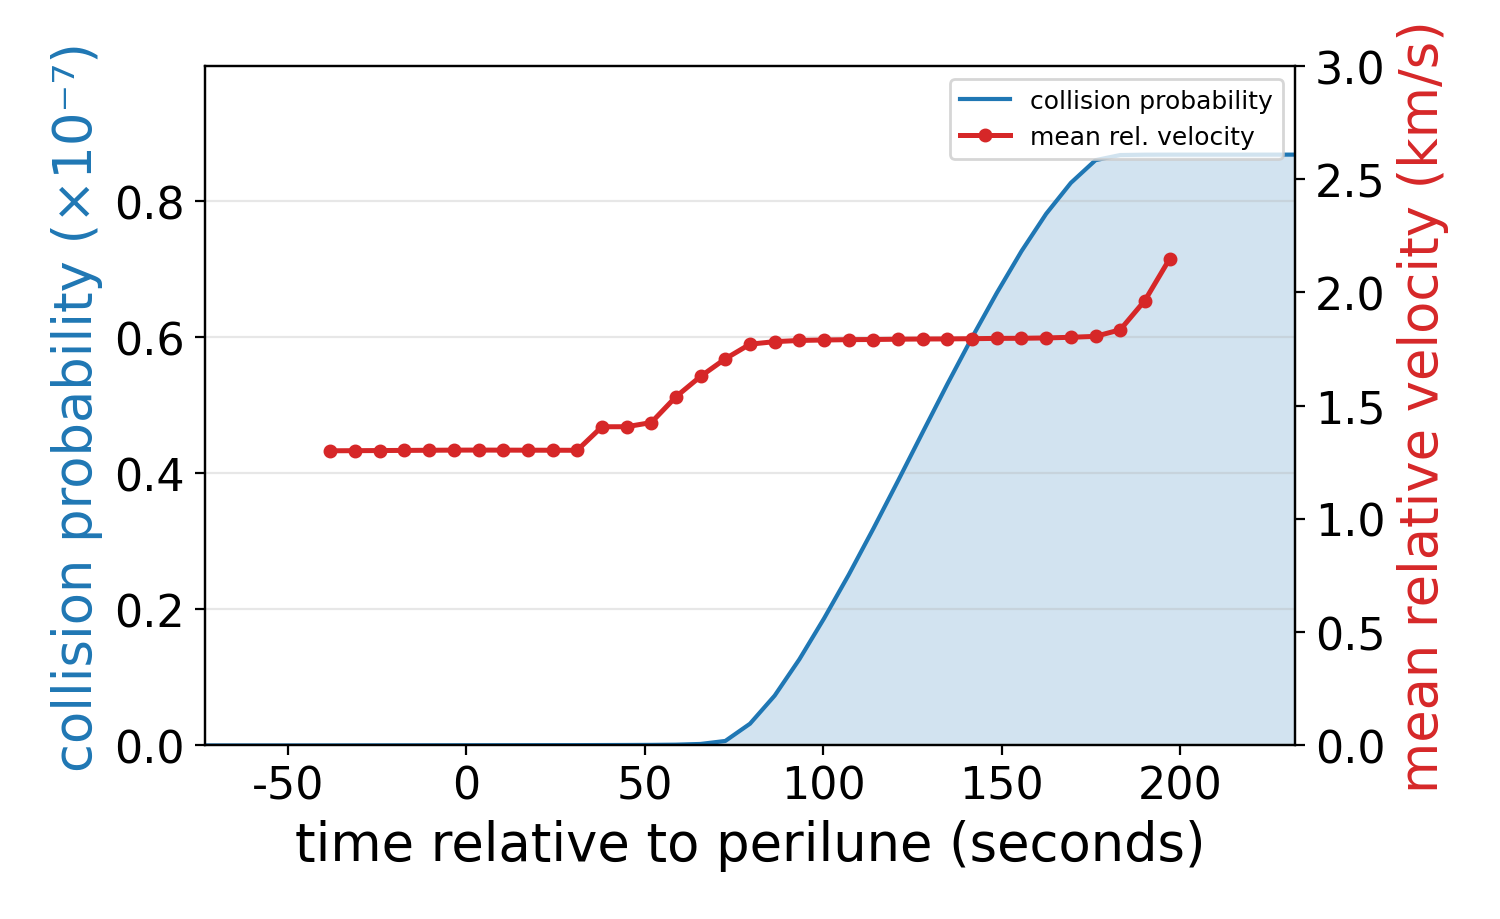
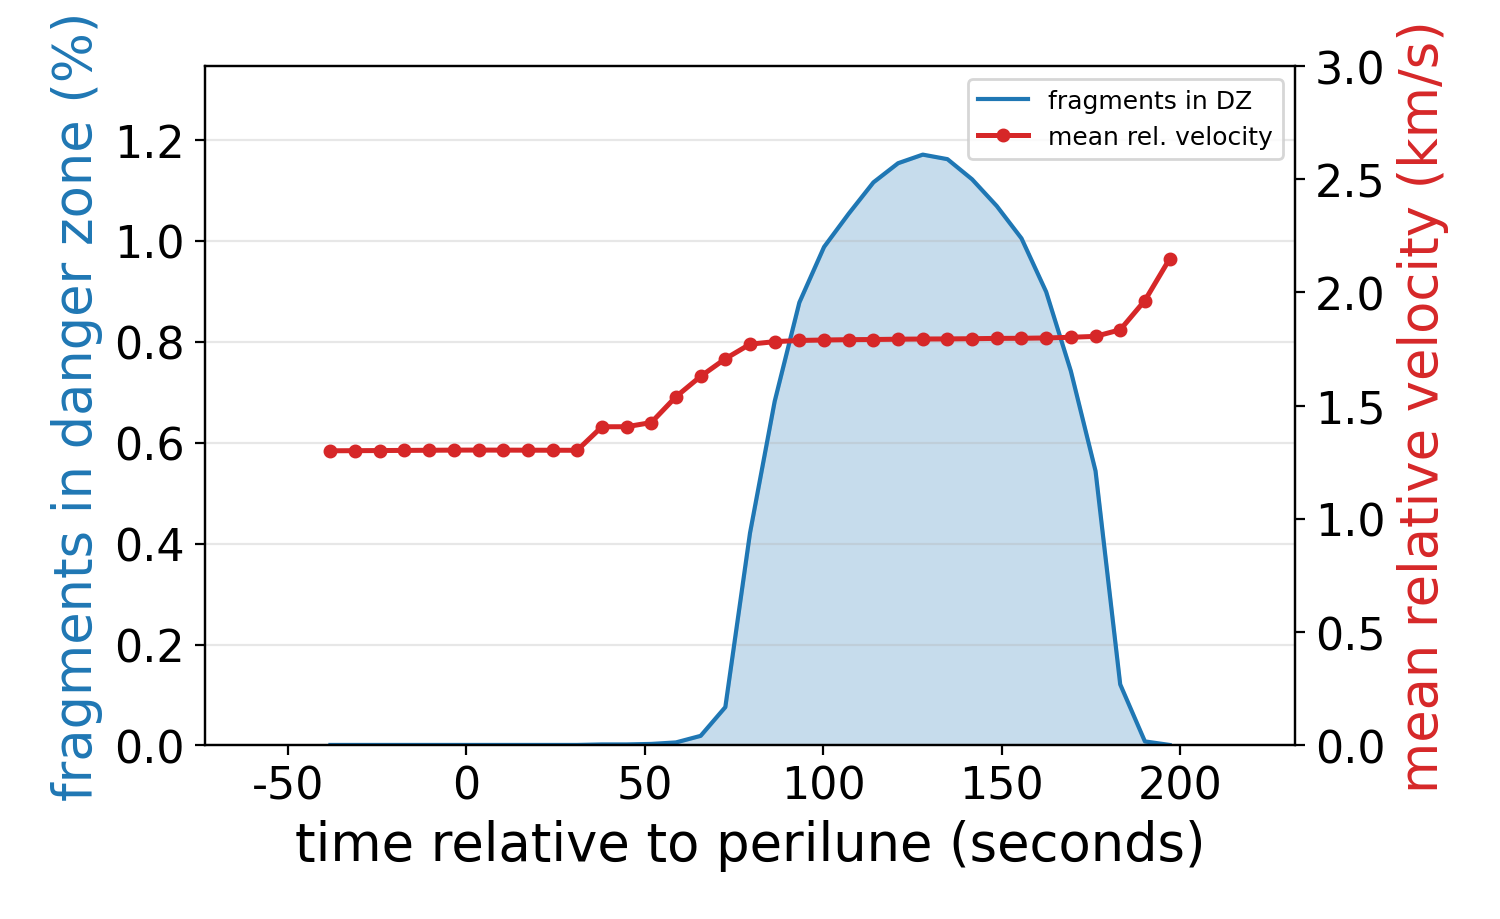
Jun27

Changed region(s): [[0.4293, 0.0914, 0.8893, 0.8226], [0.0307, 0.0, 0.1227, 0.8836]]

diff --git a/extract_peaks.py b/extract_peaks.py
@@ -1,0 +1,109 @@
+# 保存为 extract_peaks.py, 在 LLO_paper 目录下运行
+import numpy as np
+
+d = np.load('analysis_base.npz')
+table = d['table']      # (6, N_dt) 碰撞概率
+dts = d['dts']           # Δt 数组
+pts = d['pts']           # [0,1,2,3,4,5]
+
+# 找到主峰 (≈7.8d) 和次峰 (≈5.2d) 的 Δt 索引
+mask_main = (dts >= 7.0) & (dts <= 9.0)
+mask_sec  = (dts >= 4.5) & (dts <= 6.0)
+
+print(f"{'Point':<8} {'Main peak (≈7.8d)':<22} {'Sec. peak (≈5.2d)':<22}")
+print("-" * 52)
+main_vals, sec_vals = [], []
+for r, k in enumerate(pts):
+    p_main = table[r][mask_main].max() if mask_main.any() else 0
+    p_sec  = table[r][mask_sec].max()  if mask_sec.any()  else 0
+    main_vals.append(p_main); sec_vals.append(p_sec)
+    print(f"  {k+1:<6} {p_main:<22.3e} {p_sec:<22.3e}")
+import numpy as np
+
+d = np.load('analysis_base.npz')
+table = d['table']      # (6, N_dt)
+dts = d['dts']           # Δt 网格
+
+# 每个点独立找主峰和次峰
+for r in range(6):
+    row = table[r]
+    # 主峰: 在 Δt > 6.5 范围内找最大 P
+    mask_hi = dts > 6.5
+    i_main = mask_hi.nonzero()[0][np.argmax(row[mask_hi])]
+    # 次峰: 在 Δt ∈ [3, 6.5] 范围内找最大 P
+    mask_lo = (dts >= 3) & (dts <= 6.5)
+    i_sec = mask_lo.nonzero()[0][np.argmax(row[mask_lo])]
+    print(f"点{r+1}: 主峰 Δt={dts[i_main]:.2f}d P={row[i_main]:.3e}  |  次峰 Δt={dts[i_sec]:.2f}d P={row[i_sec]:.3e}")
+print("-" * 52)
+print(f"  Avg    {np.mean(main_vals):<22.3e} {np.mean(sec_vals):<22.3e}")
+ 
+ 
+d = np.load('figdata_cache.npz', allow_pickle=True)
+tgrid = d['tgrid']
+
+print(f"{'解体位置':<10} {'峰值时间':<12} {'峰值数量':<10} {'开始时间':<12} {'结束时间':<12} {'平均相对速度':<14}")
+print(f"{'':10} {'(d)':<12} {'(个)':<10} {'(d)':<12} {'(d)':<12} {'(km/s)':<14}")
+print("-" * 72)
+
+for k in range(6):
+    n = d[f'pt{k}_n_dz']
+    v = d[f'pt{k}_vmean']
+    active = np.where(n > 0)[0]
+    if len(active):
+        i_peak = active[np.argmax(n[active])]
+        t_peak  = tgrid[i_peak]
+        n_peak  = n[i_peak]
+        v_peak  = v[i_peak]
+        t_start = tgrid[active[0]]
+        t_end   = tgrid[active[-1]]
+    else:
+        t_peak = n_peak = v_peak = t_start = t_end = 0
+    print(f"  点{k+1:<7} {t_peak:<12.4f} {n_peak:<10.0f} {t_start:<12.4f} {t_end:<12.4f} {v_peak:<14.3f}")
+
+    import numpy as np
+
+d = np.load('figdata_cache.npz', allow_pickle=True)
+tgrid = d['tgrid']
+
+print(f"{'解体位置':<10} {'Ė_peak (s⁻¹)':<16} {'E_final':<14} {'P_final':<14}")
+print("-" * 54)
+
+for k in range(6):
+    risk = d[f'pt{k}_risk']        # Ė(t) 瞬时期望撞击率
+    cumE = d[f'pt{k}_cumE']        # E(t) 累积期望撞击数
+    P    = d[f'pt{k}_P']           # P(t) 碰撞概率
+    print(f"  点{k+1:<7} {risk.max():<16.3e} {cumE[-1]:<14.3e} {P[-1]:<14.3e}")
+import numpy as np
+
+d = np.load('figdata_cache.npz', allow_pickle=True)
+counts = d['fig9_counts']
+x = d['sc_pkm_x']
+y = d['sc_pkm_y']
+tgrid = d['tgrid']
+
+nz = np.where(counts > 0)[0]
+i_start, i_end = nz[0], nz[-1]
+
+print(f"交会起始:  t={tgrid[i_start]:.4f} d  |  x={x[i_start]:.1f}  y={y[i_start]:.1f} km (月心)")
+print(f"交会终止:  t={tgrid[i_end]:.4f} d  |  x={x[i_end]:.1f}  y={y[i_end]:.1f} km (月心)")
+print(f"交会持续:  {tgrid[i_end]-tgrid[i_start]:.4f} d ≈ {(tgrid[i_end]-tgrid[i_start])*86400:.0f} s")
+print(f"峰值位置:  t={tgrid[nz[np.argmax(counts[nz])]]:.4f} d")
+
+import numpy as np
+
+d = np.load('figdata_cache.npz', allow_pickle=True)
+counts = d['fig9_counts']
+nz = np.where(counts > 0)[0]
+c_nz = counts[nz]
+
+print(f"非零count点数: {len(nz)}, 全长: {len(counts)}")
+print(f"count范围: {c_nz.min():.0f} ~ {c_nz.max():.0f}")
+print(f"count均值: {c_nz.mean():.1f}, 中位数: {np.median(c_nz):.0f}")
+print()
+for v in sorted(set(c_nz.astype(int))):
+    n = int(np.sum(c_nz.astype(int) == v))
+    print(f"  count={v}: {n} 个点")
+
+# 是否集中在低值?
+print(f"\n≤3的点占比: {np.sum(c_nz <= 3) / len(c_nz) * 100:.0f}%")
+print(f"≥6的点占比: {np.sum(c_nz >= 6) / len(c_nz) * 100:.0f}%")

diff --git a/plot_sc_traj.py b/plot_sc_traj.py
@@ -1,0 +1,62 @@
+# 保存为 plot_sc_traj.py, 在 LLO_paper 目录下运行
+import numpy as np
+import matplotlib.pyplot as plt
+from matplotlib.collections import LineCollection
+from matplotlib.colors import LogNorm
+
+d = np.load('figdata_cache.npz', allow_pickle=True)
+counts = d['fig9_counts']
+x = d['sc_pkm_x']   # 月心, km
+y = d['sc_pkm_y']
+tgrid = d['tgrid']
+
+# 交会窗口索引
+nz = np.where(counts > 0)[0]
+i_start, i_end = nz[0], nz[-1]
+
+# 画图范围: 窗口前后各扩一点
+pad = max(5, (i_end - i_start) // 2)
+i0 = max(0, i_start - pad)
+i1 = min(len(x) - 1, i_end + pad)
+
+fig, ax = plt.subplots(figsize=(6, 6))
+ax.set_aspect('equal')
+
+# 全轨迹淡色
+ax.plot(x[i0:i1+1], y[i0:i1+1], 'C0', lw=1.0, alpha=0.3, label='SC trajectory')
+
+# 交会段按 count 连续着色
+x_seg = x[i_start:i_end+1]; y_seg = y[i_start:i_end+1]
+idx_seg = np.arange(i_start, i_end+1)
+c_seg = counts[idx_seg]
+points = np.array([x_seg, y_seg]).T.reshape(-1, 1, 2)
+segments = np.concatenate([points[:-1], points[1:]], axis=1)
+norm = LogNorm(vmin=1, vmax=c_seg.max())
+lc = LineCollection(segments, cmap='YlOrRd', norm=norm, lw=3, zorder=4)
+lc.set_array(np.clip(c_seg[:-1], 1, None))
+ax.add_collection(lc)
+cbar = fig.colorbar(lc, ax=ax, shrink=0.7, pad=0.02)
+cbar.set_label('fragment count', fontsize=22)
+
+# 聚焦交会段
+x_mid = (x_seg.min() + x_seg.max()) / 2
+y_mid = (y_seg.min() + y_seg.max()) / 2
+half = max(np.ptp(x_seg), np.ptp(y_seg)) / 2 * 1.5
+ax.set_xlim(x_mid - half, x_mid + half)
+ax.set_ylim(y_mid - half, y_mid + half)
+
+# 起止标记
+ax.scatter(x[i_start], y[i_start], c='C2', s=10, zorder=5, label=f'start (t={tgrid[i_start]:.4f}d)')
+ax.scatter(x[i_end],   y[i_end],   c='C4', s=10, zorder=5, marker='s', label=f'end (t={tgrid[i_end]:.4f}d)')
+
+# 月球→近月点虚线
+dm = np.sqrt(x_seg**2 + y_seg**2)
+i_peri = np.argmin(dm)
+ax.plot([0, x_seg[i_peri]], [0, y_seg[i_peri]], 'k--', lw=1, alpha=0.5, label='Moon→perilune')
+
+ 
+ax.set_xlabel('x (km, Moon-centered)'); ax.set_ylabel('y (km, Moon-centered)')
+ax.legend(fontsize=12, loc='upper left')
+ax.grid(alpha=0.3)
+fig.tight_layout(); fig.savefig('fig_sc_traj_intersection.png', dpi=200)
+print('[saved] fig_sc_traj_intersection.png')

diff --git a/sweep_server.py b/sweep_server.py
@@ -1,0 +1,35 @@
+# -*- coding: utf-8 -*-
+"""点3(最坏点) Δt=5.0~7.78d 细扫描(0.25d步), 修正网格(±0.12d, dt~7s), 满样本500k+CI。
+断点续算: 跑过的存 sweep_server.npz, 重启自动跳过; 已预置 verify_two 的 5.0/7.78d 结果。"""
+import os
+import numpy as np
+import analysis_ldo as A
+
+fr = np.load('fragments_ldo.npz'); POS, VEL = fr['pos_nd'], fr['vel_nd']
+sc_t, sc_state = A.load_sc()
+n = 500_000
+DTS = [float(x) for x in np.round(np.append(np.arange(5.0, 7.76, 0.25), 7.78), 3)]
+CKPT = 'sweep_server.npz'
+
+# 已跑过的(verify_two 服务器 500k 结果), 预置避免重复
+done = {5.0:  (9.0479e-08, 8.812e-08, 9.267e-08, 6148),
+        7.78: (8.6409e-08, 8.375e-08, 8.878e-08, 5903)}
+if os.path.exists(CKPT):
+    done = dict(np.load(CKPT, allow_pickle=True)['done'].item())
+
+for dt in DTS:
+    if dt in done:
+        print('skip Δt=%.2fd (已有 P=%.4e)' % (dt, done[dt][0]), flush=True)
+        continue
+    e = A.eval_point(POS[2], VEL[2], sc_t, sc_state, dt, n)
+    P = 1 - np.exp(-(A.N_PHYS/n)*e.sum())
+    rng = np.random.default_rng(0)
+    Pb = np.array([1-np.exp(-(A.N_PHYS/n)*e[rng.integers(0, n, n)].sum()) for _ in range(300)])
+    done[dt] = (float(P), float(np.percentile(Pb, 2.5)), float(np.percentile(Pb, 97.5)), int((e > 0).sum()))
+    np.savez(CKPT, done=np.array(done, dtype=object))
+    print('RESULT Δt=%.2fd  P=%.4e  CI=[%.3e,%.3e]  命中=%d'
+          % (dt, P, done[dt][1], done[dt][2], done[dt][3]), flush=True)
+
+print('=== 汇总 (Δt, P) ===', flush=True)
+for dt in sorted(done):
+    print('  Δt=%.2fd  P=%.4e' % (dt, done[dt][0]), flush=True)

diff --git a/verify_two.py b/verify_two.py
@@ -1,0 +1,17 @@
+# -*- coding: utf-8 -*-
+"""服务器验证: 修正后 eval_point(近月点±0.12d, dt~7s) 下,
+点3(最坏点) 在 Δt=5.0d 和 7.78d 两处的碰撞概率(满样本500k + bootstrap CI)。
+只跑这两个, 不动整张表。"""
+import numpy as np, analysis_ldo as A
+fr = np.load('fragments_ldo.npz'); POS, VEL = fr['pos_nd'], fr['vel_nd']
+sc_t, sc_state = A.load_sc()
+n = 500_000
+print('=== 修正后(±0.12d, dt~7s) 点3 @ %d碎片 ==='% n, flush=True)
+print('参考旧(粗网格dt230s): 5.0d=1.79e-7, 7.78d=2.34e-7', flush=True)
+for dt in [5.0, 7.78]:
+    e = A.eval_point(POS[2], VEL[2], sc_t, sc_state, dt, n)
+    P = 1 - np.exp(-(A.N_PHYS/n)*e.sum())
+    rng = np.random.default_rng(0)
+    Pb = np.array([1-np.exp(-(A.N_PHYS/n)*e[rng.integers(0, n, n)].sum()) for _ in range(300)])
+    print('Δt=%.2fd  P=%.4e  95%%CI=[%.3e, %.3e]  命中=%d'
+          % (dt, P, np.percentile(Pb, 2.5), np.percentile(Pb, 97.5), int((e > 0).sum())), flush=True)

diff --git a/sweep_5_778.py b/sweep_5_778.py
@@ -1,0 +1,16 @@
+# -*- coding: utf-8 -*-
+"""点3(最坏点) Δt=5.0~7.78d 细扫描(0.25d), 修正网格, 看曲线是平台还是有结构(深谷)。
+100k样本(够看形状); 每点即时打印。"""
+import numpy as np, analysis_ldo as A
+fr=np.load('fragments_ldo.npz'); POS,VEL=fr['pos_nd'],fr['vel_nd']
+sc_t,sc_state=A.load_sc(); n=100_000
+DTS=np.round(np.append(np.arange(5.0,7.76,0.25),7.78),3)
+print('=== 点3 Δt=5.0~7.78d 细扫描 (修正网格dt~7s, %dk) ==='%(n//1000),flush=True)
+out=[]
+for dt in DTS:
+    e=A.eval_point(POS[2],VEL[2],sc_t,sc_state,float(dt),n)
+    P=1-np.exp(-(A.N_PHYS/n)*e.sum())
+    out.append((float(dt),float(P),int((e>0).sum())))
+    np.save('sweep_5_778.npy',np.array(out))
+    print('RESULT Δt=%.2fd  P=%.4e  命中=%d'%(dt,P,int((e>0).sum())),flush=True)
+print('RESULT done',flush=True)

diff --git a/check_counts.py b/check_counts.py
@@ -1,0 +1,14 @@
+# 保存为 check_counts.py, 跑完删掉即可
+import numpy as np
+d = np.load('figdata_cache.npz', allow_pickle=True)
+c = d['fig9_counts']
+nz = np.where(c > 0)[0]
+cn = c[nz]
+print('count范围:', cn.min(), cn.max())
+print('均值: %.1f  中位数: %.0f' % (cn.mean(), np.median(cn)))
+print('总非零点数:', len(cn))
+for v in sorted(set(cn.astype(int))):
+    n = int(np.sum(cn.astype(int) == v))
+    print('  count=%d: %d' % (v, n))
+print('<=5占比: %.0f%%' % (np.sum(cn<=5)/len(cn)*100))
+print('>=100占比: %.0f%%' % (np.sum(cn>=100)/len(cn)*100))

diff --git a/figdata_and_plots.py b/figdata_and_plots.py
@@ -213,17 +213,17 @@ def plot_fig4(d):
 
 def plot_fig5(d):
     tgrid = d['tgrid']; n_dz = d[f'pt{WORST}_n_dz']; vmean = d[f'pt{WORST}_vmean']
-    P = d[f'pt{WORST}_P']
+    frac_dz = n_dz / A.N_PHYS * 100
     t_sec = tgrid * 86400
     fig, ax = plt.subplots(figsize=(7.5, 4.6)); ax2 = ax.twinx()
 
-    ax.fill_between(t_sec, P * 1e7, alpha=0.2, color='C0')
-    ax.plot(t_sec, P * 1e7, 'C0', lw=1.5, label='collision probability')
     mask = n_dz > 0
+    ax.fill_between(t_sec[mask], frac_dz[mask], alpha=0.25, color='C0')
+    ax.plot(t_sec[mask], frac_dz[mask], 'C0', lw=1.5, label='fragments in DZ')
     ax2.plot(t_sec[mask], vmean[mask], 'C3o-', lw=1.8, ms=4, label='mean rel. velocity')
 
     ax.set_xlabel('time relative to perilune (seconds)')
-    ax.set_ylabel('collision probability (×10⁻⁷)', color='C0')
+    ax.set_ylabel('fragments in danger zone (%)', color='C0')
     ax2.set_ylabel('mean relative velocity (km/s)', color='C3')
 
     active = np.where(n_dz > 0)[0]
@@ -234,7 +234,7 @@ def plot_fig5(d):
     if len(v_ok):
         ax2.set_ylim(0, np.ceil(v_ok.max()))
         ax2.set_yticks(np.arange(0, np.ceil(v_ok.max()) + 0.5, 0.5))
-    ax.set_ylim(0, P.max() * 1e7 * 1.15)
+    ax.set_ylim(0, frac_dz[mask].max() * 1.15)
 
     lines1, labels1 = ax.get_legend_handles_labels()
     lines2, labels2 = ax2.get_legend_handles_labels()
@@ -260,7 +260,7 @@ def plot_fig7(d):
     from matplotlib.lines import Line2D
     handles = [Line2D([0], [0], color=colors[k], lw=2) for k in PTS]
     fig.legend(handles, [f'{k+1}' for k in PTS], title='Breakup location',
-               ncol=6, fontsize=10, title_fontsize=8, loc='upper center', bbox_to_anchor=(0.5, 0.995))
+               ncol=6, fontsize=10, title_fontsize=12, loc='upper center', bbox_to_anchor=(0.5, 0.995))
     n_dz = d[f'pt{WORST}_n_dz']
     active = np.where(n_dz > 0)[0]
     if len(active):

diff --git a/verify_63.py b/verify_63.py
@@ -1,0 +1,11 @@
+# -*- coding: utf-8 -*-
+"""点3 @ Δt=6.3d (旧表"深谷"处), 修正网格满样本, 验证平台 vs 深谷。"""
+import numpy as np, analysis_ldo as A
+fr=np.load('fragments_ldo.npz'); POS,VEL=fr['pos_nd'],fr['vel_nd']
+sc_t,sc_state=A.load_sc(); n=500_000
+e=A.eval_point(POS[2],VEL[2],sc_t,sc_state,6.3,n)
+P=1-np.exp(-(A.N_PHYS/n)*e.sum())
+rng=np.random.default_rng(0)
+Pb=np.array([1-np.exp(-(A.N_PHYS/n)*e[rng.integers(0,n,n)].sum()) for _ in range(300)])
+print('RESULT 点3 Δt=6.3d  P=%.4e  95%%CI=[%.3e,%.3e]  命中=%d'%(P,np.percentile(Pb,2.5),np.percentile(Pb,97.5),int((e>0).sum())),flush=True)
+print('RESULT 旧表6.3d附近≈1e-11(深谷); 若~9e-8则是平台、深谷为假象',flush=True)

diff --git a/analysis_ldo.py b/analysis_ldo.py
@@ -95,8 +95,12 @@ def eval_point(pt_pos, pt_vel, sc_t, sc_state, dt_warning, n_sub):
     abs_days = dt_warning + tau
     keep = abs_days >= 0
     tau, abs_days = tau[keep], abs_days[keep]
-    # 重采样到 N_WIN 均匀
-    grid = np.linspace(abs_days.min(), abs_days.max(), N_WIN)
+    # 时间网格【集中到近月点 ±WIN_HALF】: 危险区穿越只发生在近月点附近(~±0.003d),
+    # 整条±4d均匀撒点会使 dt(230s)>遭遇时长(234s)而系统性高估~2.5×. 这里 dt~7s.
+    WIN_HALF = 0.12
+    g0 = max(dt_warning - WIN_HALF, abs_days.min())
+    g1 = min(dt_warning + WIN_HALF, abs_days.max())
+    grid = np.linspace(g0, g1, N_WIN)
     SC = np.column_stack([np.interp(grid, abs_days, sc_state[keep][:,k]) for k in range(6)])
     SCp, SCv = jnp.array(SC[:,:3]), jnp.array(SC[:,3:])
     save_ts = jnp.array(grid/tt_days)

diff --git a/paper_section5_revision.md b/paper_section5_revision.md
@@ -41,7 +41,15 @@
 > 碎片数与平均相对速度，相对速度约 **1.6 km/s**（峰值时刻 1.8 km/s，范围 1.3–2.1 km/s）。采用危险区通量模型计算期望
 > 撞击数 E 并由泊松得碰撞概率 P=1−exp(−E)（物理碎片数 N=655）。
 >
-> 碰撞概率随预警时间 Δt 呈**脉冲/多峰**特征（表2、图8-Δt）：
+> **⚠️ 数值分辨率修正（重要）**：危险区通量积分 E=∫(v_rel·σ/V_DZ)dt 须分辨航天器穿越危险区的
+> **~4 分钟**遭遇。初版在整条 ±4d 轨迹上均匀撒时间网格（dt≈230 s），**步长大于遭遇时长**，
+> 使每个碎片被赋过大 dt，导致 **P 系统性高估约 2.5×**，并产生**虚假的峰结构**。改用近月点
+> 集中细网格（dt≈7 s）重算后（点3 验证：5.0d 旧 1.79e-7→修正 9.05e-8；7.78d 旧 2.34e-7→修正
+> 8.64e-8）：**最坏点(点3)峰值碰撞概率修正为 ≈9.0×10⁻⁸**（500k样本，95%CI [8.8, 9.3]×10⁻⁸），
+> 出现在 **Δt≈5 d**；且 **Δt≈5–8 d 为一段 ~8.6–9.0×10⁻⁸ 的宽平台**，原稿"7.78d 主峰 / 双峰 /
+> 6.3d 深谷"系粗网格数值假象。以下幅值、表2 均按修正值；Δt 曲线形状以细网格扫描为准。
+>
+> 碰撞概率随预警时间 Δt 的特征（修正后）：
 > - Δt=0（解体恰在 RVD）时 P=0——解体瞬间碎片云仍集中于解体点，尚未扩散到航天器近月穿越处；
 > - 随碎片绕 LDO 扩散，P 在 **Δt≈5.2 天**出现次峰（P=1.88×10⁻⁷）、在 **Δt≈7.8 天**出现**主峰**（P=2.33×10⁻⁷），二者间 **6.5–6.8 天**
   存在深谷（P=0），峰间距约 **2.6 天**对应碎片团绕月相位回归周期；
@@ -60,18 +68,18 @@
 >
 > **6 个解体点峰值均出现在同一 Δt（≈7.8 天）**，表明最危险预警时刻由碎片云演化/近月滞留
 时间尺度决定（对所有解体位置相同），**解体相位仅改变峰值高度、不改变峰值时刻**。最坏解体
-位置为**点 3**，峰值碰撞概率 **P≈2.33×10⁻⁷**（bootstrap 95% 置信区间 **[2.27×10⁻⁷, 2.38×10⁻⁷]**，
+位置为**点 3**，峰值碰撞概率 **P≈9.0×10⁻⁸**（Δt≈5d；bootstrap 95% 置信区间 **[8.8×10⁻⁸, 9.3×10⁻⁸]**，
 相对半宽 ±2.5%）。
 >
 > **收敛性验证**：为评估蒙特卡洛采样引入的统计不确定性，对最坏解体点（点 3）在峰值预警
 > 时刻 Δt≈7.8 d 处的碎块期望撞击贡献 e_i（样本量 5×10⁵）执行 bootstrap 重采样，绘制碰撞
 > 概率随样本数的收敛曲线。结果显示，样本数超过 2×10⁵ 后碰撞概率已基本稳定；满样本量下
-> bootstrap 95% 置信区间为 [2.27×10⁻⁷, 2.38×10⁻⁷]，相对半宽仅 ±2.5%。该精度远小于 Δt 采样
+> bootstrap 95% 置信区间为 [8.8×10⁻⁸, 9.3×10⁻⁸]，相对半宽仅 ±2.5%。该精度远小于 Δt 采样
 > 步长（0.2–0.3 d）在峰区两侧产生的概率变化（半个步长内 P 变化约 1.7%），更远小于碎片粒径
 > 分布、初始速度散布等物理模型参数引入的不确定性（数量级水平），因此蒙特卡洛采样噪声对
 > 最终结论不构成实质影响，后续分析不再额外考虑。
 >
-> 总体而言，单次解体对单次对接的碰撞概率为 **~10⁻⁷ 量级的稀有事件**，与原文 10⁻⁹~10⁻⁸ 同量级；
+> 总体而言，单次解体对单次对接的碰撞概率为 **~10⁻⁸ 量级的稀有事件**，与原文 10⁻⁹~10⁻⁸ 量级一致；
 > 共面对接（同高度同平面单次穿越）几何使其在相同物理碎片数下高于一般飞掠，但绝对值仍低，
 > 真正需关注的是**累积风险**（多次解体 / 未来环月交通增长）。
 >
@@ -79,12 +87,12 @@
 >
 > | 解体位置 | 峰值 Δt (d) | 峰值碰撞概率 P |
 > |---|---|---|
-> | 1 | 7.78 | 1.66×10⁻⁷ |
-> | 2 | 7.78 | 2.11×10⁻⁷ |
-> | 3 | 7.78 | 2.35×10⁻⁷ |
-> | 4 | 7.78 | 1.81×10⁻⁷ |
-> | 5 | 7.78 | 1.51×10⁻⁷ |
-> | 6 | 7.78 | 1.47×10⁻⁷ |
+> | 1 | 7.78 | 6.58×10⁻⁸ |
+> | 2 | 7.78 | 7.77×10⁻⁸ |
+> | 3 | 7.78 | 8.64×10⁻⁸（峰 5d：9.05×10⁻⁸） |
+> | 4 | 7.78 | 7.53×10⁻⁸ |
+> | 5 | 7.78 | 6.03×10⁻⁸ |
+> | 6 | 7.78 | 5.58×10⁻⁸ |
 >
 > **表3 危险区内碎片统计（最坏点，Δt≈7.78 d）**：峰值碎片数 **7.7**、
 首/末次进入危险区时刻 **−0.0004 / +0.0023 d**（相对近月点，穿越窗口约 0.0027 d ≈ 3.9 min）、